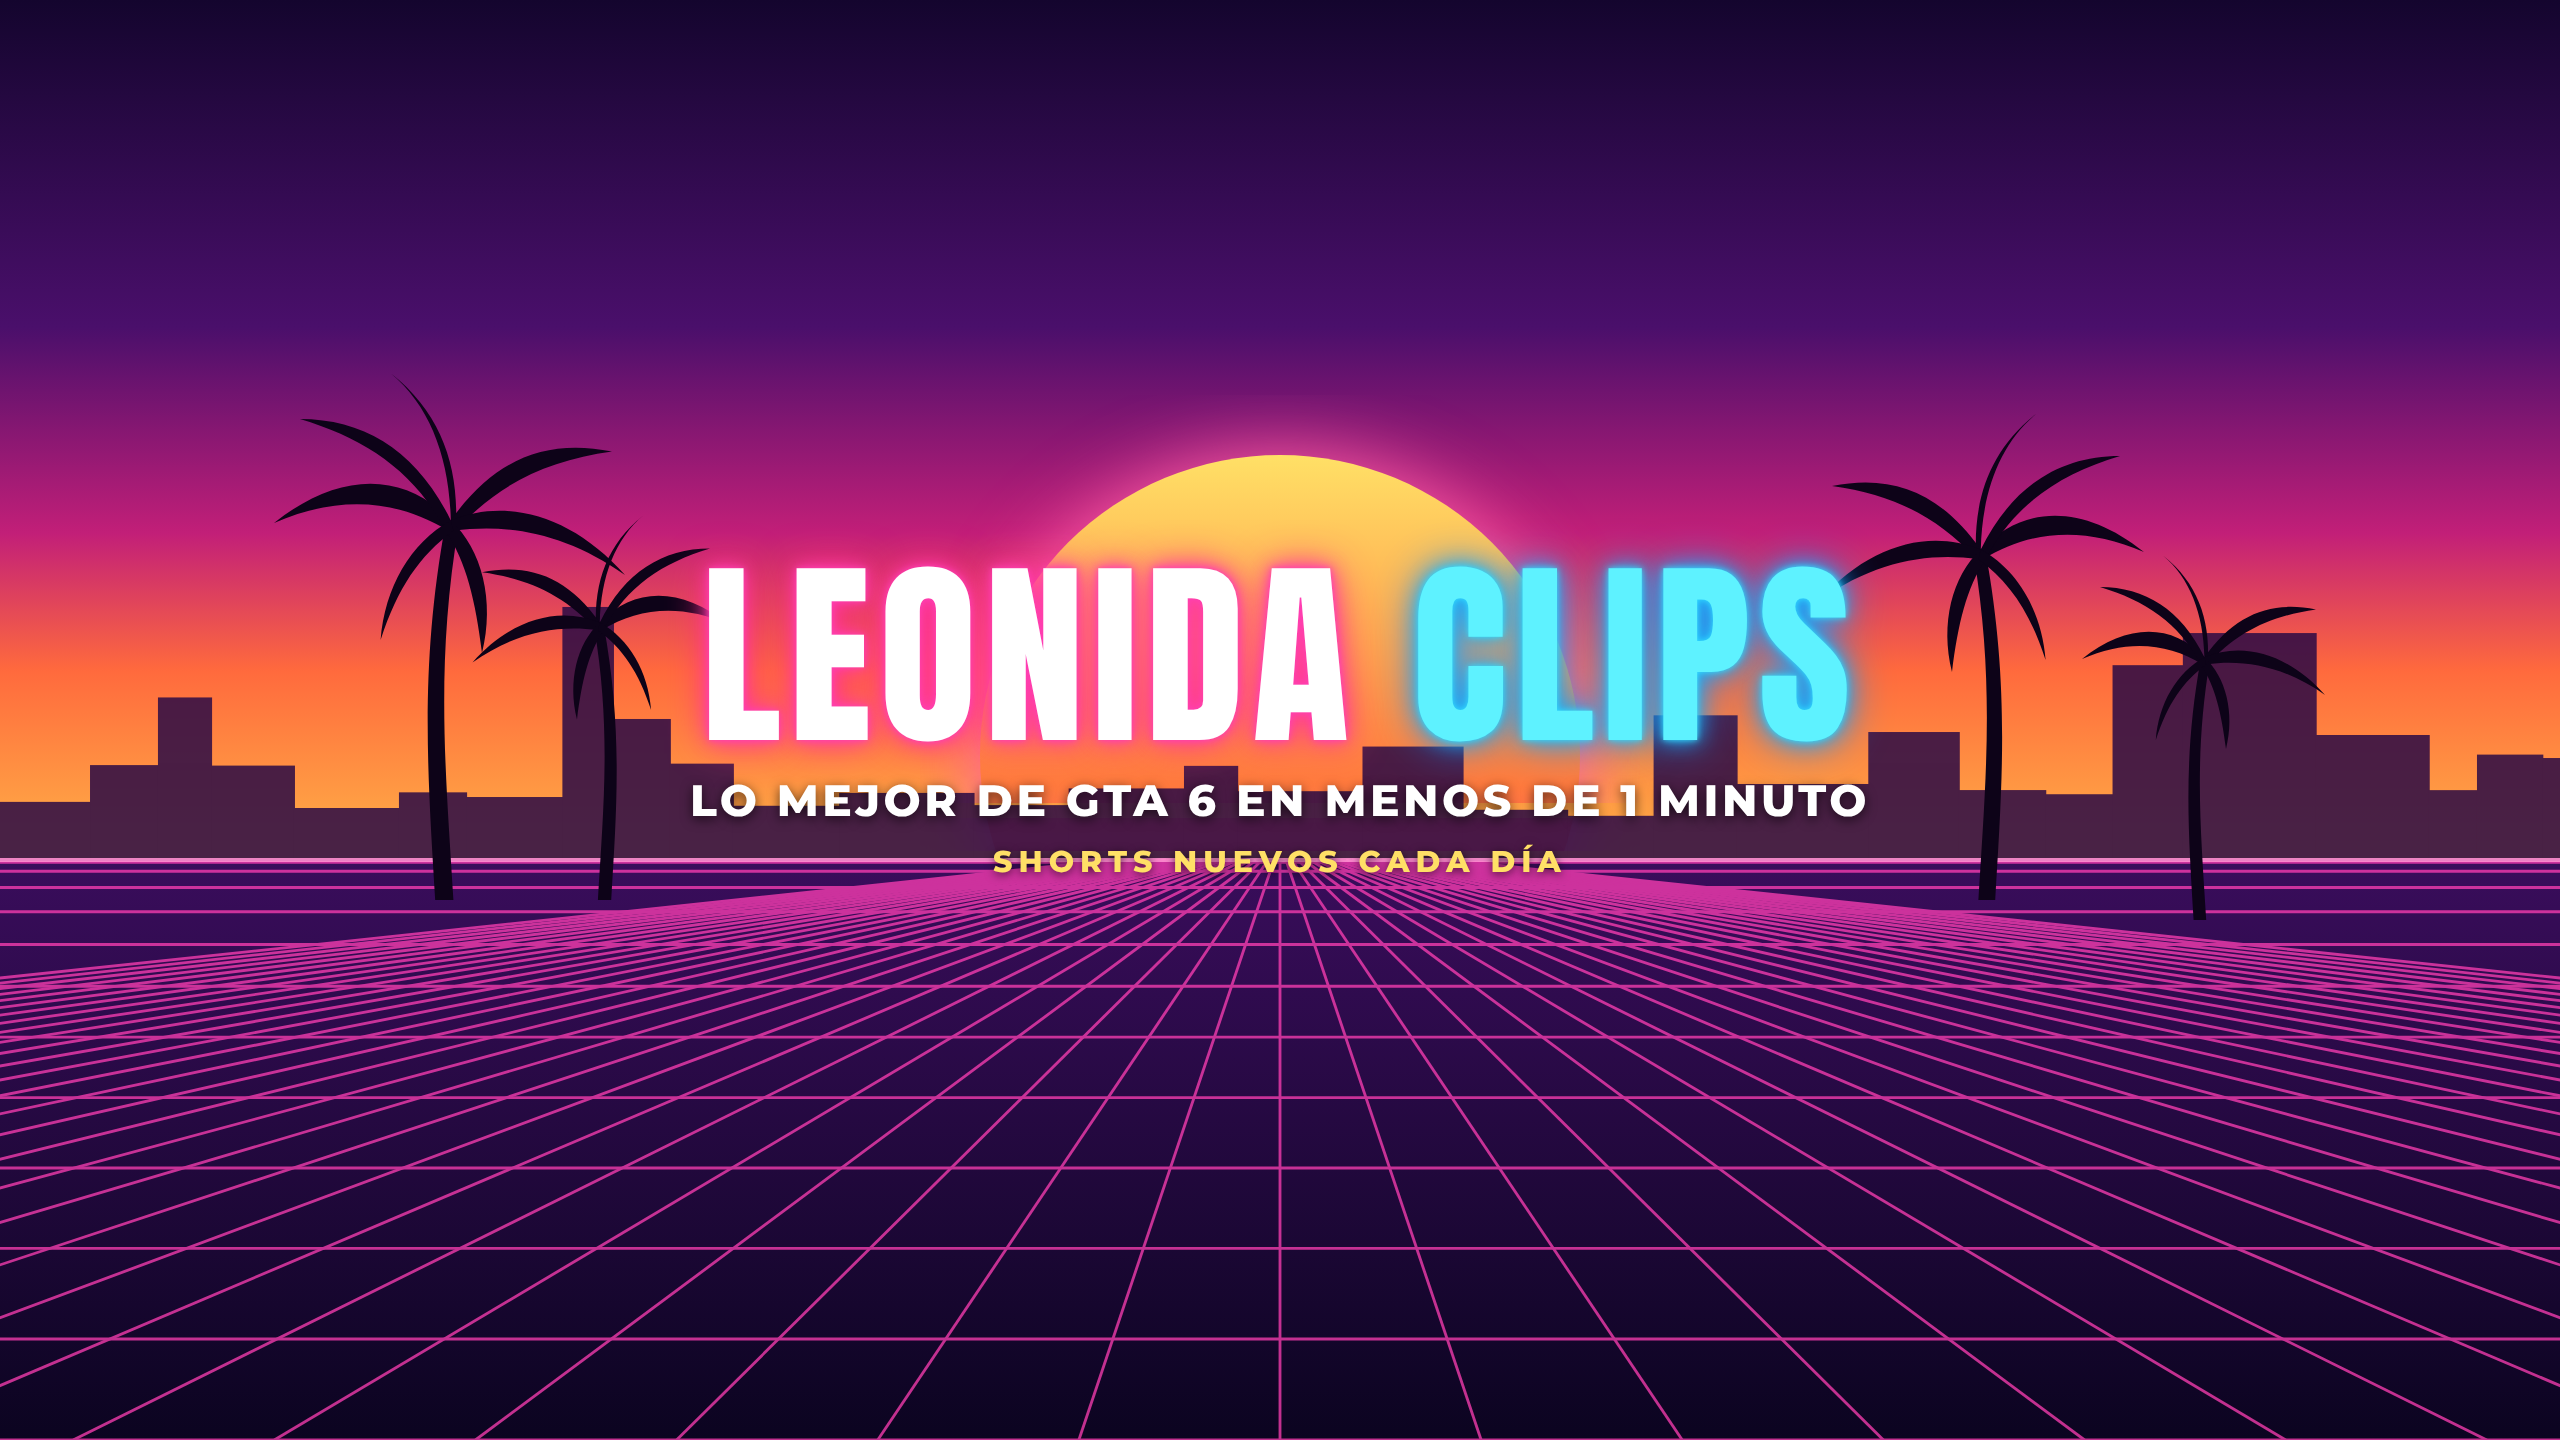
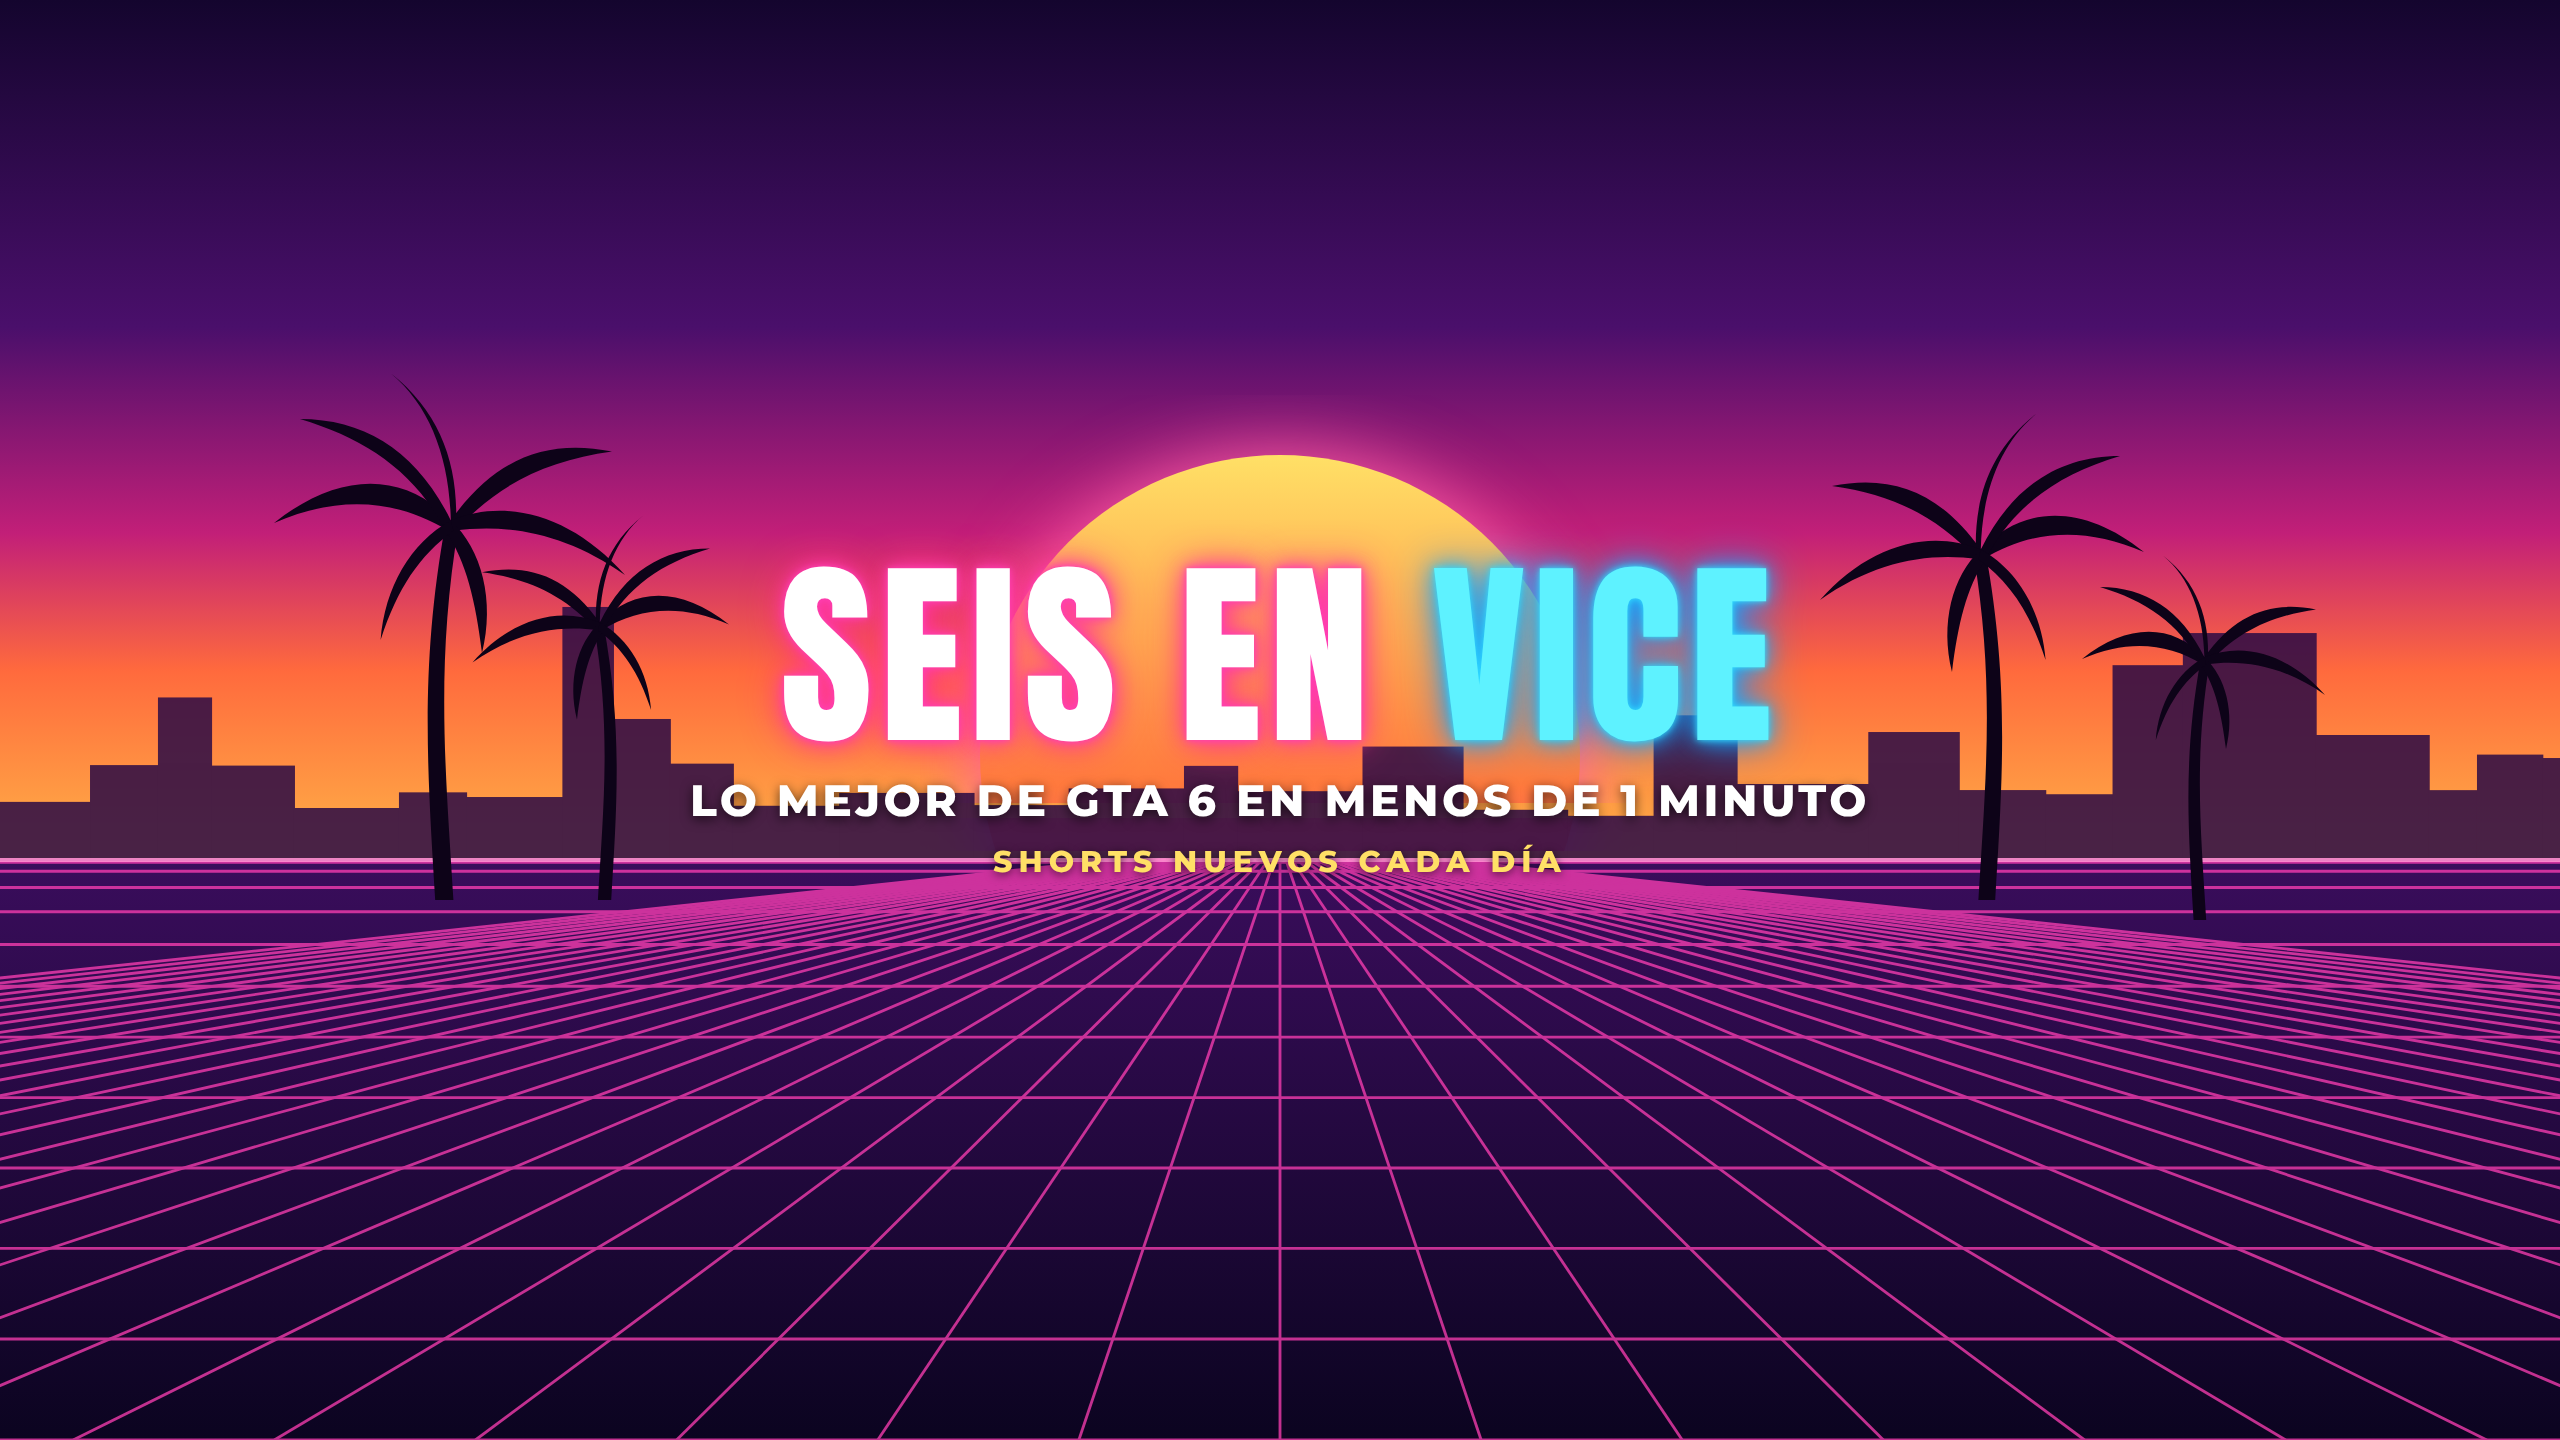
Cambiar nombre del canal a Seis en Vice (@SeisEnVice)
Claude-Session: https://claude.ai/code/session_01J5NsSZmDGSZ5tPdyVTvyXq

Changed region(s): [[0.25, 0.375, 0.75, 0.5312]]

diff --git a/canal-gta6/diseno/render.js b/canal-gta6/diseno/render.js
@@ -4,10 +4,10 @@ const fs = require('fs');
 const path = require('path');
 const { chromium } = require('playwright');
 
-const NAME_A = process.env.NAME_A || 'LEONIDA';
-const NAME_B = process.env.NAME_B || 'CLIPS';
+const NAME_A = process.env.NAME_A || 'SEIS EN';
+const NAME_B = process.env.NAME_B || 'VICE';
 const TAG = process.env.TAG || 'LO MEJOR DE GTA 6 EN MENOS DE 1 MINUTO';
-const INITIALS = process.env.INITIALS || 'LC';
+const INITIALS = process.env.INITIALS || '6V';
 const css = fs.readFileSync(path.join(__dirname, 'common.css'), 'utf8');
 const defs = fs.readFileSync(path.join(__dirname, 'scene.svg.txt'), 'utf8');
 

diff --git a/canal-gta6/GUIA-CANAL.md b/canal-gta6/GUIA-CANAL.md
@@ -5,18 +5,16 @@
 
 ## 1. Nombre del canal (propuestas)
 
-Nombre de trabajo usado en el diseño: **Leonida Clips** (Leonida es el estado ficticio donde transcurre GTA 6).
+Nombre elegido: **Seis en Vice** — `@SeisEnVice`
 
-Alternativas si prefieres otro:
-- **Leonida Clips** — corto, identificable con GTA 6 sin usar la marca registrada.
-- **Vice Momentos**
-- **Clips de Leonida**
-- **GTA 6 al Instante** *(más directo para el buscador, pero usa la marca en el nombre)*
+- "Seis" es un guiño a GTA **6** sin usar la marca en el nombre; "Vice" conecta con Vice City.
+- Logo/foto de perfil: **6V**.
+- Regístralo también en TikTok e Instagram (`@seisenvice`) antes del lanzamiento.
 
 > Evita usar el logo oficial de GTA o la tipografía de Rockstar en banner/perfil: el diseño
 > incluido es 100 % original (estilo atardecer neón de Florida) para no tener problemas de marca.
 
-Handle sugerido: `@LeonidaClips` (comprueba disponibilidad al crear el canal).
+Handle: `@SeisEnVice` (libre en YouTube a 7-nov-2026; regístralo cuanto antes).
 
 ## 2. Archivos de imagen
 
@@ -28,19 +26,19 @@ Handle sugerido: `@LeonidaClips` (comprueba disponibilidad al crear el canal).
 
 Para regenerarlos con otro nombre (desde la carpeta `diseno/`):
 ```bash
-NAME_A="VICE" NAME_B="MOMENTOS" INITIALS="VM" node render.js
+NAME_A="SEIS EN" NAME_B="VICE" INITIALS="6V" node render.js   # valores por defecto
 ```
 
 ## 3. Descripción del canal
 
 ```
-🌴 Lo mejor de GTA 6 en menos de 1 minuto 🌴
+🌴 SEIS EN VICE — Lo mejor de GTA 6 en menos de 1 minuto 🌴
 
 Momentos épicos, fails, secretos, easter eggs, persecuciones y todo lo que está
 pasando en Leonida y Vice City, recortado en Shorts para que no te pierdas nada.
 
 📅 Shorts nuevos cada día
-🔔 Suscríbete y activa la campanita para no perderte ningún clip
+🔔 Suscríbete a Seis en Vice y activa la campanita para no perderte ningún clip
 
 🎮 Contenido de fans. No afiliado a Rockstar Games ni Take-Two Interactive.
 Grand Theft Auto es una marca registrada de Take-Two Interactive.
@@ -49,7 +47,7 @@ Grand Theft Auto es una marca registrada de Take-Two Interactive.
 ```
 
 **Palabras clave del canal** (Configuración → Canal → Información básica):
-`GTA 6, GTA VI, Grand Theft Auto 6, GTA 6 shorts, GTA 6 clips, GTA 6 español, Vice City, Leonida, Lucia y Jason, GTA 6 momentos épicos, GTA 6 fails, GTA 6 secretos, GTA 6 easter eggs, gameplay GTA 6`
+`Seis en Vice, GTA 6, GTA VI, Grand Theft Auto 6, GTA 6 shorts, GTA 6 clips, GTA 6 español, Vice City, Leonida, Lucia y Jason, GTA 6 momentos épicos, GTA 6 fails, GTA 6 secretos, GTA 6 easter eggs, gameplay GTA 6`
 
 ## 4. Títulos para Shorts — fórmulas que funcionan
 
@@ -74,9 +72,9 @@ Al final del título o en la descripción: `#GTA6 #Shorts`.
 [1 frase que describe el clip con la palabra clave principal]
 Ej: Este detalle de las físicas de GTA 6 en Vice City te va a volar la cabeza 🤯
 
-🔔 Suscríbete para más clips de GTA 6 cada día
+🔔 Suscríbete a @SeisEnVice para más clips de GTA 6 cada día
 
-#GTA6 #GTAVI #Shorts #ViceCity #GTA6Clips
+#GTA6 #GTAVI #Shorts #ViceCity #SeisEnVice
 ```
 - Los **3 primeros hashtags** aparecen encima del título: pon siempre `#GTA6` primero.
 - No pongas más de ~5 hashtags (más de 15 hace que YouTube los ignore todos).
